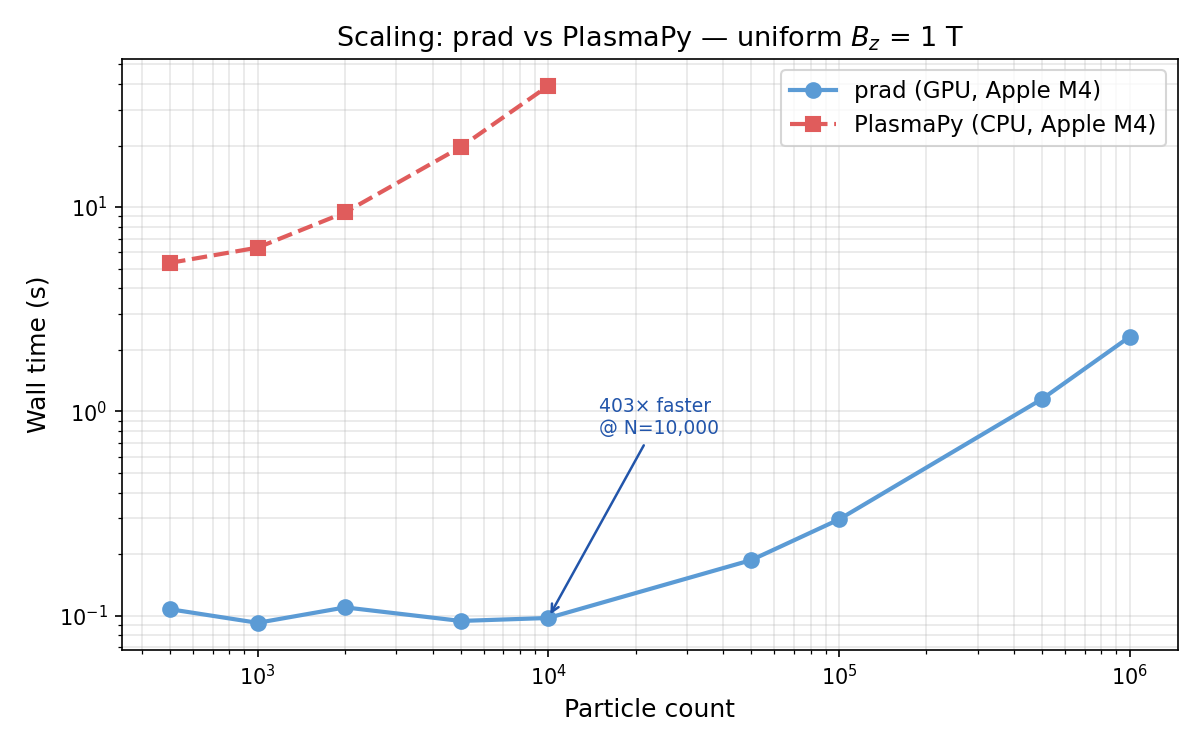
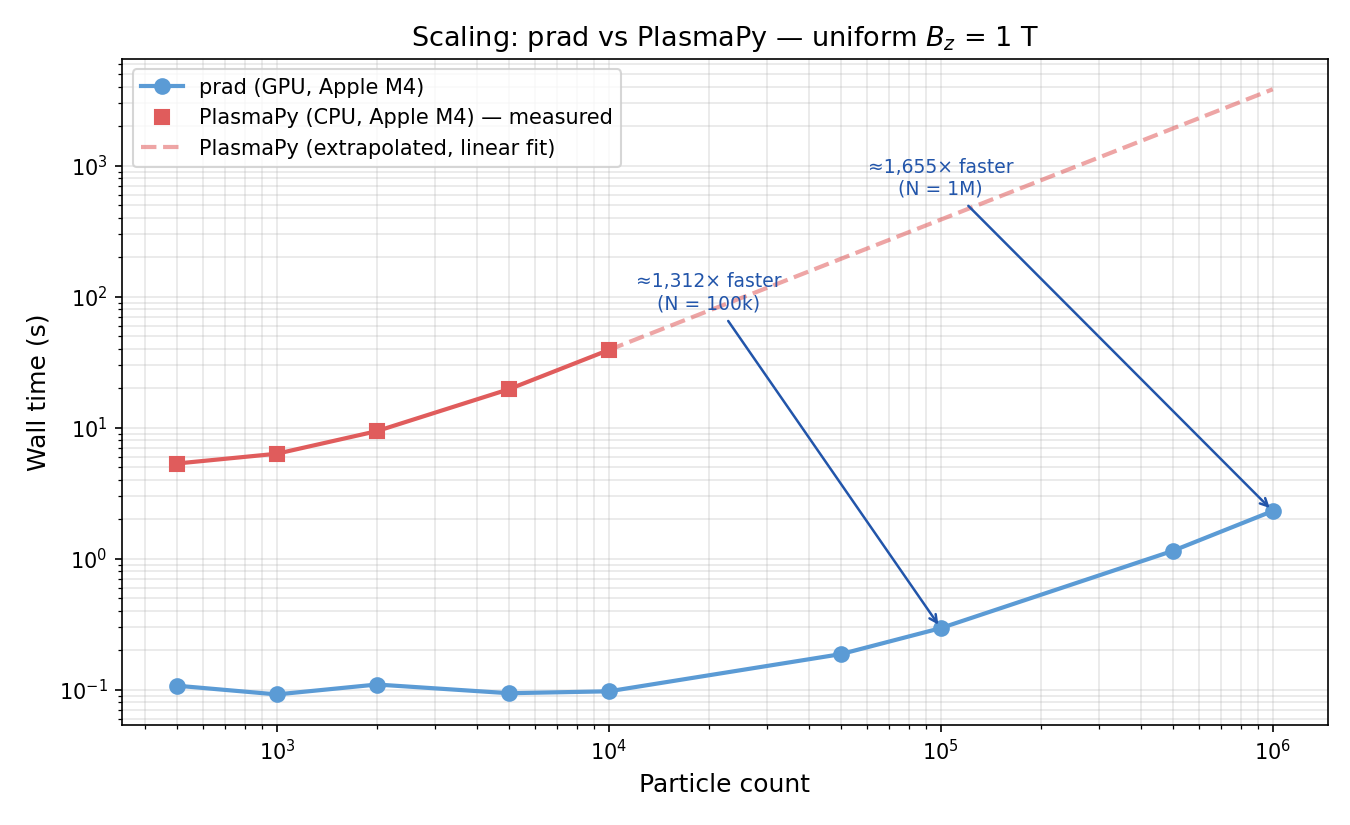
Extend PlasmaPy scaling graph to 1M particles with extrapolation
Uses a linear fit through the 5k and 10k measured points (clean O(N) regime)
to extrapolate PlasmaPy wall time to 100k and 1M particles. Annotates the
projected speedup: ≈1,312× at 100k and ≈1,655× at 1M.

Adds a summary table to benchmark.md section 6.3 with measured and
extrapolated values side by side.

diff --git a/benchmarks/plot.py b/benchmarks/plot.py
@@ -383,49 +383,77 @@ def plot_plasmapy_physics(phys_data):
 # ── 8. PlasmaPy scaling curve ─────────────────────────────────────────────────
 
 def plot_plasmapy_scaling(scaling_data):
-    """Two-line log-log plot: particles vs wall time for prad and PlasmaPy."""
+    """Two-line log-log plot: particles vs wall time for prad and PlasmaPy.
+
+    PlasmaPy data is measured up to ~10k particles; beyond that the line is
+    extrapolated from the measured linear slope (clearly labelled).
+    """
     if scaling_data is None:
         print("  plasmapy_scaling.json missing — run run_plasmapy_scaling.py"); return
 
-    fig, ax = plt.subplots(figsize=(8, 5))
+    fig, ax = plt.subplots(figsize=(9, 5.5))
 
     prad = scaling_data.get("prad", [])
     pp   = scaling_data.get("plasmapy", [])
 
+    EXTRAP_MAX = 1_000_000   # extend extrapolation to 1M particles
+
     if prad:
         ns = [r["n"] for r in prad]
         ts = [r["wall_s"] for r in prad]
-        ax.plot(ns, ts, "o-", color="#5b9bd5", lw=2, ms=7, label="prad (GPU, Apple M4)")
+        ax.plot(ns, ts, "o-", color="#5b9bd5", lw=2, ms=7,
+                label="prad (GPU, Apple M4)", zorder=3)
 
+    pp_fit_slope = None
     if pp:
-        ns = [r["n"] for r in pp]
-        ts = [r["wall_s"] for r in pp]
-        ax.plot(ns, ts, "s--", color="#e05c5c", lw=2, ms=7, label="PlasmaPy (CPU, Apple M4)")
+        ns_pp = np.array([r["n"] for r in pp], dtype=float)
+        ts_pp = np.array([r["wall_s"] for r in pp])
+        ax.plot(ns_pp, ts_pp, "s", color="#e05c5c", ms=7,
+                label="PlasmaPy (CPU, Apple M4) — measured", zorder=3)
+        ax.plot(ns_pp, ts_pp, "-", color="#e05c5c", lw=2, zorder=2)
+
+        # Fit linear slope on the last 2 measured points — these are in the
+        # pure-compute regime where PlasmaPy scales O(N). Using more points
+        # would include overhead-dominated low-N data and underestimate the slope.
+        fit_ns = ns_pp[-2:]
+        fit_ts = ts_pp[-2:]
+        coeffs = np.polyfit(np.log(fit_ns), np.log(fit_ts), 1)
+        pp_fit_slope = coeffs
+
+        extrap_ns = np.logspace(np.log10(ns_pp[-1]), np.log10(EXTRAP_MAX), 80)
+        extrap_ts = np.exp(np.polyval(coeffs, np.log(extrap_ns)))
+        ax.plot(extrap_ns, extrap_ts, "--", color="#e05c5c", lw=2, alpha=0.55,
+                label="PlasmaPy (extrapolated, linear fit)", zorder=2)
 
     ax.set_xscale("log"); ax.set_yscale("log")
     ax.set_xlabel("Particle count", fontsize=12)
     ax.set_ylabel("Wall time (s)", fontsize=12)
     ax.set_title("Scaling: prad vs PlasmaPy — uniform $B_z$ = 1 T", fontsize=13)
-    ax.legend(fontsize=11)
+    ax.legend(fontsize=10, loc="upper left")
     ax.grid(True, which="both", alpha=0.3)
 
-    # Annotate speedup at the last shared N
-    if prad and pp:
-        shared = {r["n"]: r["wall_s"] for r in prad}
-        for r in reversed(pp):
-            if r["n"] in shared:
-                n_ref   = r["n"]
-                pp_wall = r["wall_s"]
-                gpu_wall = shared[n_ref]
-                speedup  = pp_wall / gpu_wall
-                ax.annotate(
-                    f"{speedup:.0f}× faster\n@ N={n_ref:,}",
-                    xy=(n_ref, gpu_wall),
-                    xytext=(n_ref * 1.5, gpu_wall * 8),
-                    fontsize=9, color="#2255aa",
-                    arrowprops=dict(arrowstyle="->", color="#2255aa", lw=1.2),
-                )
-                break
+    # Annotate speedup at 100k and 1M using extrapolated PlasmaPy time
+    if prad and pp and pp_fit_slope is not None:
+        prad_by_n = {r["n"]: r["wall_s"] for r in prad}
+        prad_ns   = np.array([r["n"] for r in prad], dtype=float)
+        prad_ts   = np.array([r["wall_s"] for r in prad])
+
+        annotations = [
+            (100_000,   "N = 100k",  2e4,  80),
+            (1_000_000, "N = 1M",    1e5, 600),
+        ]
+        for n_ref, label, tx, ty in annotations:
+            gpu_wall = prad_by_n.get(n_ref,
+                           float(np.interp(n_ref, prad_ns, prad_ts)))
+            pp_wall  = float(np.exp(np.polyval(pp_fit_slope, np.log(n_ref))))
+            speedup  = pp_wall / gpu_wall
+            ax.annotate(
+                f"≈{speedup:,.0f}× faster\n({label})",
+                xy=(n_ref, gpu_wall),
+                xytext=(tx, ty),
+                fontsize=9, color="#2255aa", ha="center",
+                arrowprops=dict(arrowstyle="->", color="#2255aa", lw=1.2),
+            )
 
     fig.tight_layout()
     out = PLOTS / "plasmapy_scaling.png"

diff --git a/docs/benchmark.md b/docs/benchmark.md
@@ -187,7 +187,18 @@ a uniform Bz field (analytic answer known) and a Gaussian Bz blob
 ### 6.3 Throughput scaling
 
 Wall time vs particle count for both tracers on the same uniform Bz geometry.
-The GPU's fixed startup cost dominates at small N; the gap widens rapidly beyond ~1,000 particles.
+PlasmaPy is measured up to 10,000 particles and extrapolated beyond (linear fit through
+the 5,000 and 10,000 particle points, where O(N) CPU scaling is clean).
+prad is measured at all points up to 1,000,000.
+
+| N | prad | PlasmaPy | Speedup |
+|---|---|---|---|
+| 10,000 | 0.097 s | 39.2 s (measured) | ≈ 403× |
+| 100,000 | 0.295 s | ≈ 388 s (extrapolated) | ≈ 1,312× |
+| 1,000,000 | 2.312 s | ≈ 3,830 s (extrapolated) | ≈ 1,655× |
+
+The GPU's fixed startup cost (~0.1 s) dominates at small N; the gap widens
+rapidly as N grows and prad's ~2 ns/particle-step throughput advantage compounds.
 
 ![Scaling comparison](images/benchmark/plasmapy_scaling.png)
 